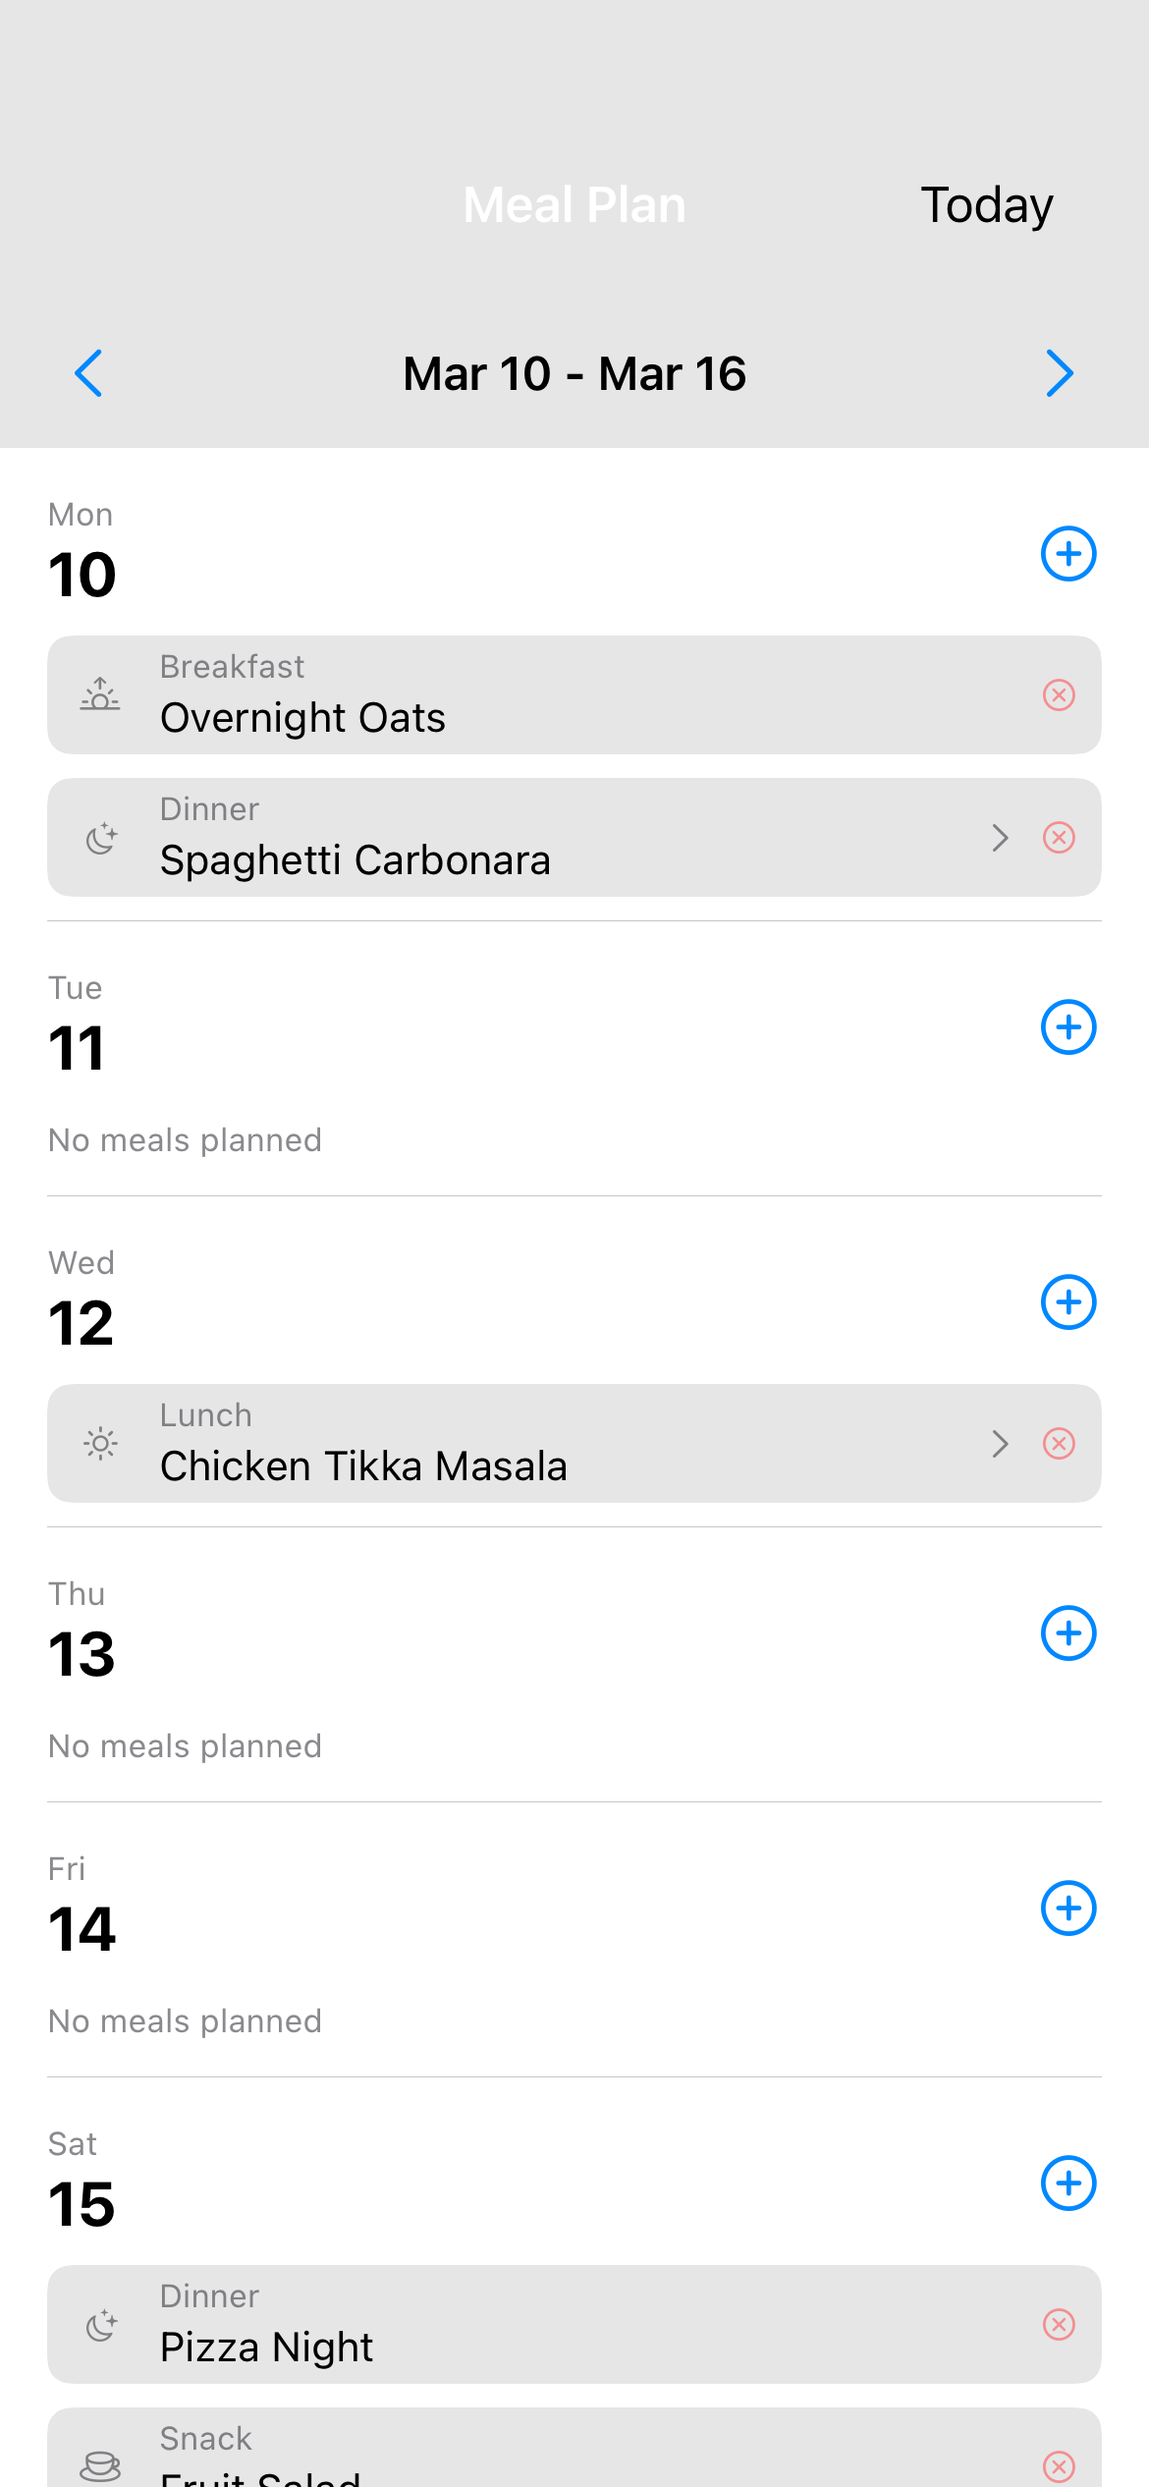
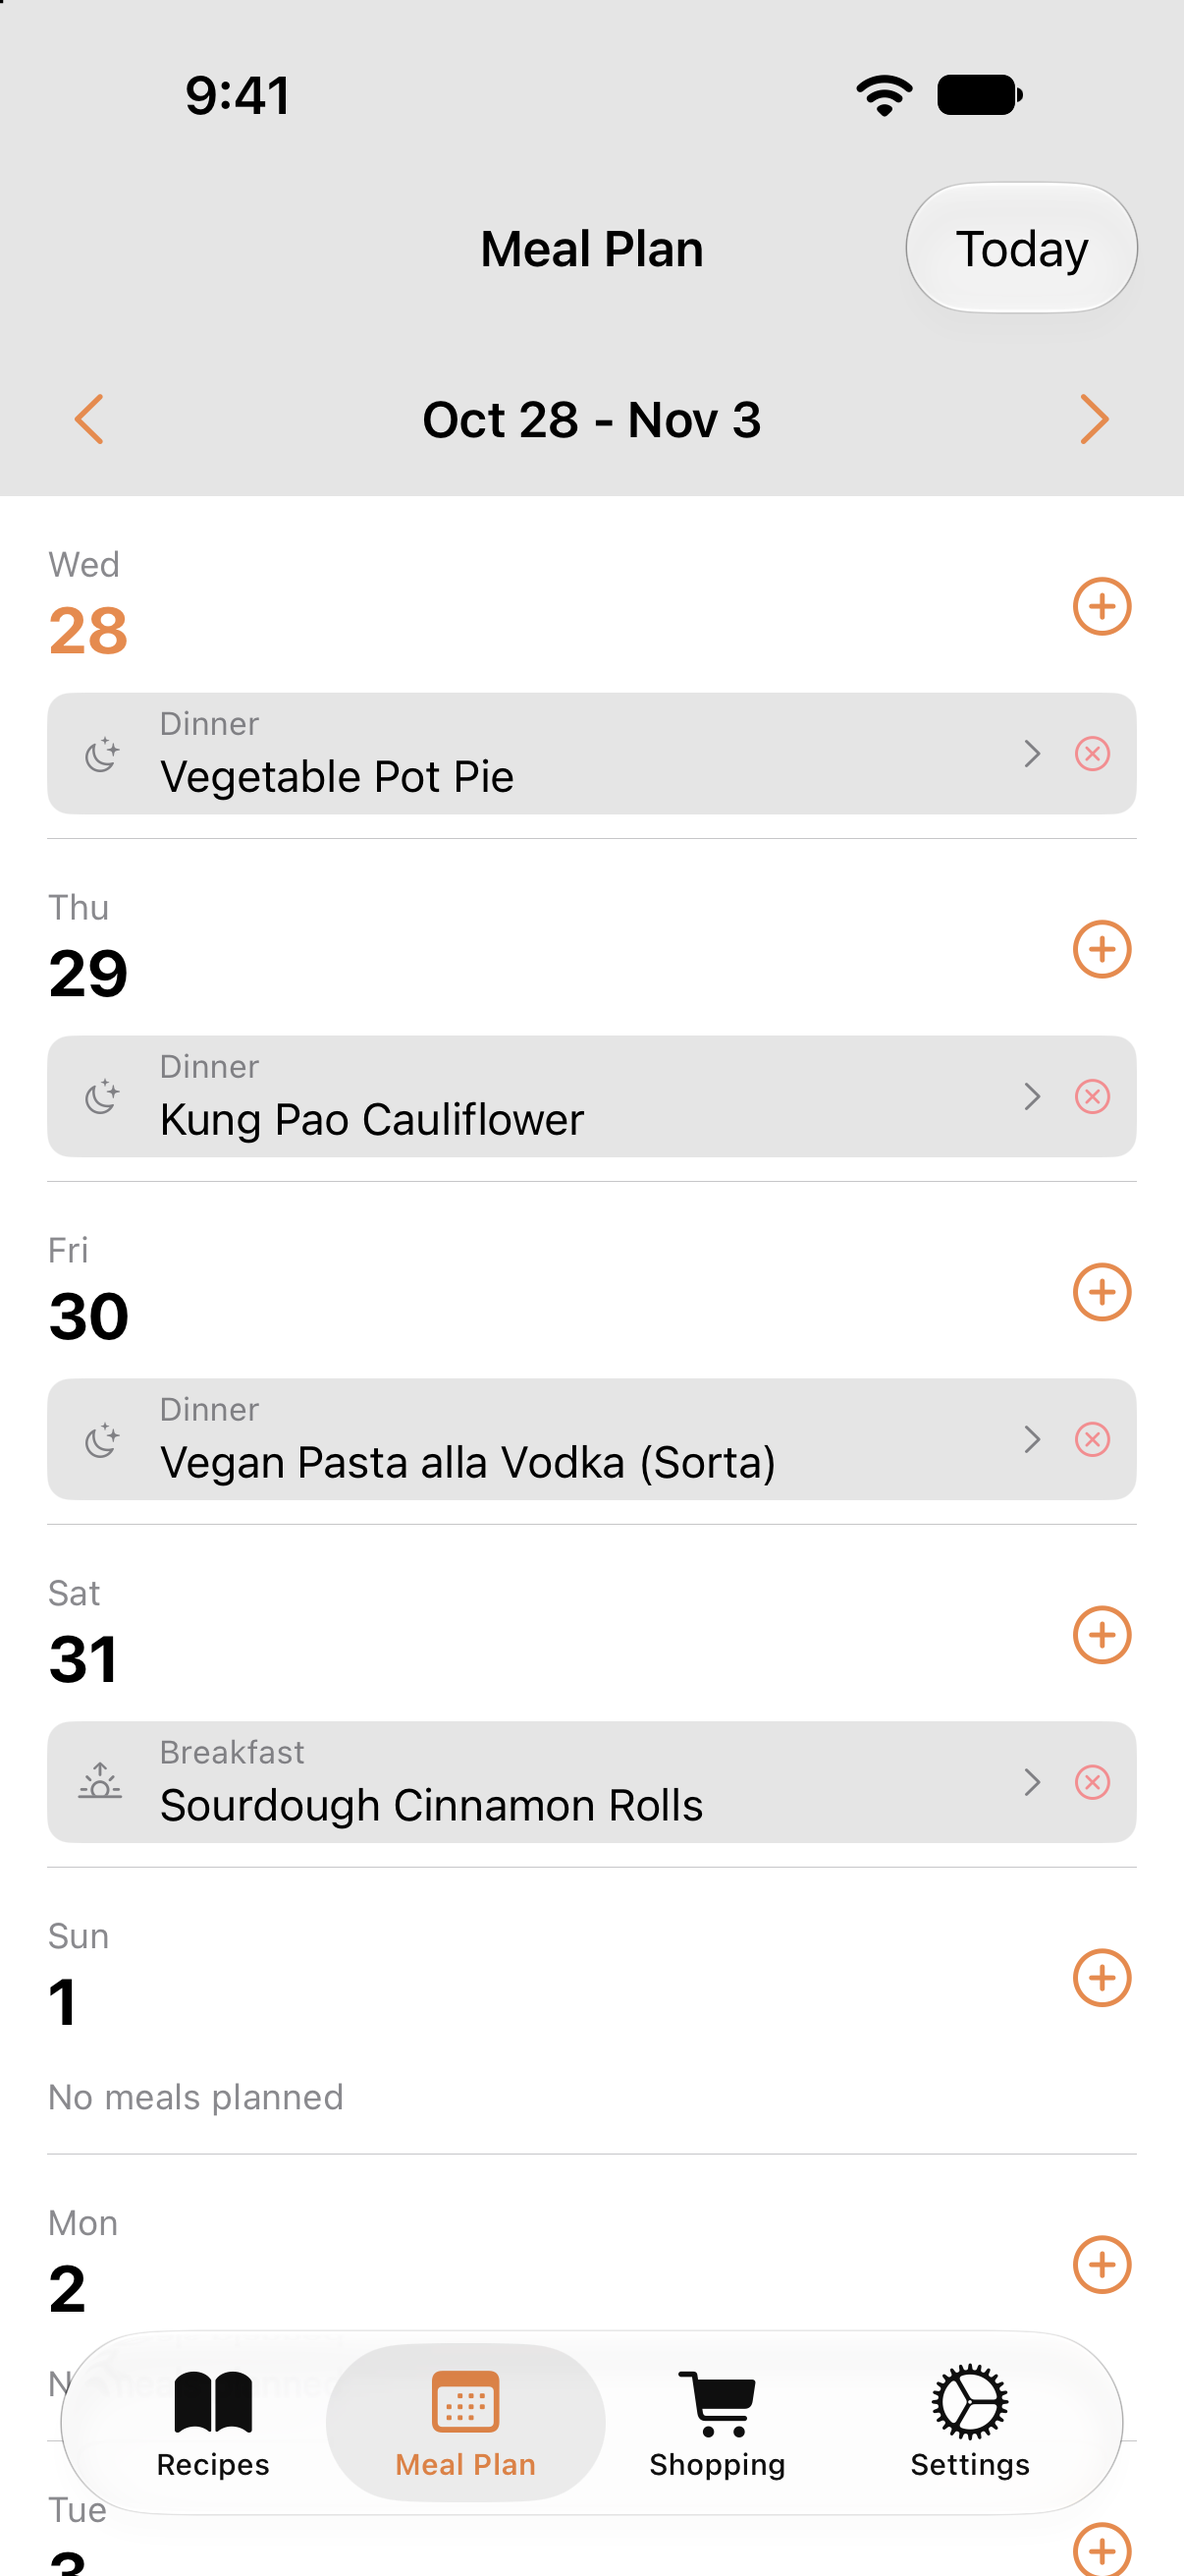
docs(readme): refresh iPhone screenshots and update setup/test docs
- Replace the iPhone recipe list, recipe detail and meal plan screenshots
  with captures from the app running against a live Mealie server
  (iPhone 18 Pro, iOS 27); iPad and Android images remain snapshot goldens
- Mention the browser extension and iOS integrations (iCloud, Reminders)
- Clarify Android SDK/JDK requirements, emulator networking, Xcode setup
- Expand the test section: Android Roborazzi verification, extension
  tests, and snapshot guide links

diff --git a/README.md b/README.md
@@ -1,9 +1,10 @@
 # Mealie App
 
-Native mobile clients for [Mealie](https://mealie.io) — the self-hosted recipe manager. One repo, two fully native apps:
+Native mobile clients for [Mealie](https://mealie.io) — the self-hosted recipe manager. This repository contains two native mobile apps and a browser extension:
 
 - **iOS** — Swift / SwiftUI (iPhone + iPad)
 - **Android** — Kotlin / Jetpack Compose, MVVM (phones, foldables, and tablets)
+- **Browser extension** — Recipe URL capture for Chrome-compatible browsers, Firefox, and Safari
 
 > Previously built with [Skip Fuse](https://skip.tools) as a single cross-compiled codebase; now each platform is fully native. See `docs/ANALYSIS.md` for the rewrite rationale and feature parity checklist.
 
@@ -15,6 +16,7 @@ Native mobile clients for [Mealie](https://mealie.io) — the self-hosted recipe
 - **Meal Planning** — Weekly meal plan view with add/delete, and add-to-plan from any recipe
 - **Shopping Lists** — Create lists, add items manually or from recipe ingredients (long-press), check off items, queue items offline and upload later
 - **Share to import** — Share a recipe URL to the app (iOS share extension / Android share intent) to import it
+- **iOS integrations** — Optional iCloud sync for local recipes and optional export of shopping ingredients to Reminders
 - **Dark Mode** — System, Light, and Dark theme options
 - **Adaptive layouts** — Sidebar + split view on iPad; bottom bar ↔ navigation rail and two-pane layouts on Android foldables/tablets
 
@@ -40,7 +42,7 @@ Native mobile clients for [Mealie](https://mealie.io) — the self-hosted recipe
 
 <img src="docs/screenshots/android-tablet-wide.png" width="700" alt="Android tablet two-pane layout">
 
-*Screenshots are the committed golden images from the snapshot test suites (fixture data).*
+*iPhone screenshots are from the app running against a live Mealie server; the iPad and Android screenshots are the committed golden images from the snapshot test suites (fixture data).*
 
 ## Browser Extension
 
@@ -50,7 +52,8 @@ The repo also ships a cross-browser extension (`extension/`) that saves recipes 
 
 - A running [Mealie](https://mealie.io) server (v2) — or use local mode without one
 - **iOS**: Xcode 26+, iOS 17+
-- **Android**: JDK 21 (Java 17 toolchain, `compileOptions`/`jvmTarget`), Android SDK (platform 35, build-tools 35.0.0)
+- **Android**: Android Studio or the command-line Android SDK with platform 35; a Gradle-compatible JDK (the project targets Java/Kotlin JVM 17). Minimum device version: Android 8.0 (API 26).
+- **Extension tests**: Node.js 18+; no npm dependencies
 
 ## Getting Started
 
@@ -70,22 +73,41 @@ The repo also ships a cross-browser extension (`extension/`) that saves recipes 
 3. **Android** — point Gradle at your SDK, then build:
    ```sh
    echo "sdk.dir=$HOME/Library/Android/sdk" > android/local.properties
-   cd android && ./gradlew assembleDebug
+   (cd android && ./gradlew :app:assembleDebug)
    ```
    The debug APK lands in `android/app/build/outputs/apk/debug/`.
 
-4. Open the app and enter your Mealie server URL to connect — or choose "Use Without Server".
+4. Open the app and enter your Mealie server URL, then sign in — or choose "Use Without Server". The server must be reachable from the simulator or device; on the Android emulator, use `10.0.2.2` to reach a server running on your development machine.
+
+For iOS development, you can also open `ios/Darwin/MealieApp.xcodeproj` in Xcode and select the **MealieApp App** scheme. Choose an installed simulator; replace the example device name in commands if needed. Running on a physical device requires configuring signing for your team.
 
 ## Running Tests
 
-```sh
-# iOS (must run on a simulator; `swift test` won't work — MealieUI needs UIKit)
-cd ios && xcodebuild test -scheme mealie-app-Package \
-  -destination 'platform=iOS Simulator,name=iPhone 17 Pro'
+Run these commands from the repository root:
 
-# Android
-cd android && ./gradlew test
+```sh
+# iOS model and snapshot tests (requires an installed iOS simulator)
+(cd ios && xcodebuild test -scheme mealie-app-Package \
+  -destination 'platform=iOS Simulator,name=iPhone 17 Pro')
+
+# Android unit tests, including screenshot composition smoke checks
+(cd android && ./gradlew test)
+
+# Android pixel comparison against committed screenshot goldens
+(cd android && ./gradlew :app:verifyRoborazziDebug)
+
+# Browser extension recipe detection tests (no server needed)
+node --test extension/test/detect.test.mjs
 ```
+
+The iOS package includes UIKit-dependent UI targets, so run its tests through
+Xcode on an iOS simulator rather than `swift test`. Snapshot results depend on the
+simulator OS version. Android screenshot tests run on the JVM with Robolectric;
+`./gradlew test` does not compare golden images.
+
+See the [iOS snapshot guide](ios/Tests/MealieUISnapshotTests/README.md) and
+[Android screenshot guide](android/app/src/test/java/com/jackabee/mealie/screenshots/README.md)
+for recording goldens and troubleshooting image differences.
 
 ## Project Structure
 
@@ -104,10 +126,15 @@ android/
     di/             # AppContainer (manual DI)
     ui/             # theme, navigation, StateFlow ViewModels, Compose screens
   app/src/test/     # JUnit unit tests
+extension/          # Manifest V3 extension, Node tests, Safari wrapper
 docs/               # ANALYSIS.md (feature inventory), UI_SPECS.md (screen specs)
 scripts/            # release.sh (version bump + TestFlight)
 ```
-Versions are bumped together: `ios/Darwin/MealieApp.xcconfig` (`MARKETING_VERSION`/`CURRENT_PROJECT_VERSION`, currently 1.1.18/21) and `android/app/build.gradle.kts` (`versionName`/`versionCode`, currently 1.1.18/21).
+## Releases
+
+`scripts/release.sh [patch|minor]` runs from the repository root. It bumps both platform versions, archives the iOS app, uploads to TestFlight, commits the version files, creates a tag, and pushes the commit and tags. It requires Apple signing/upload credentials and Git push access. It does not publish an Android release.
+
+Versions are kept together in: `ios/Darwin/MealieApp.xcconfig` (`MARKETING_VERSION`/`CURRENT_PROJECT_VERSION`, currently 1.1.18/21) and `android/app/build.gradle.kts` (`versionName`/`versionCode`, currently 1.1.18/21).
 
 ## Tech Stack
 
@@ -117,4 +144,4 @@ Versions are bumped together: `ios/Darwin/MealieApp.xcconfig` (`MARKETING_VERSIO
 
 ## License
 
-MIT
+The project README previously identified the license as MIT; this repository does not currently include a standalone license file.
